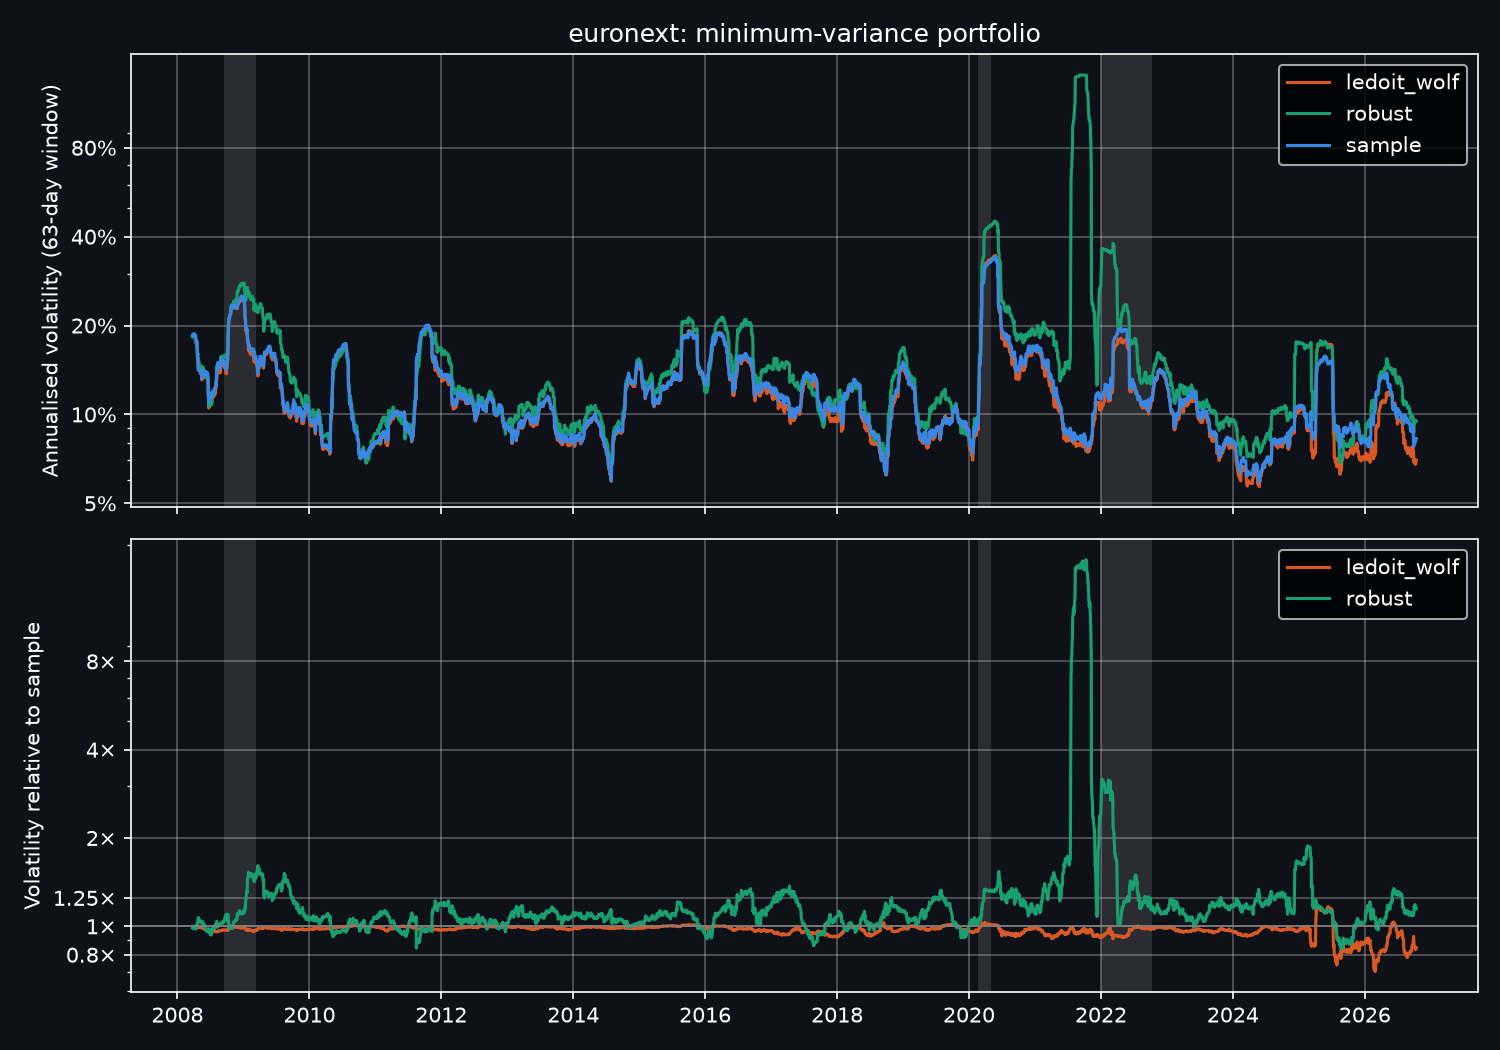
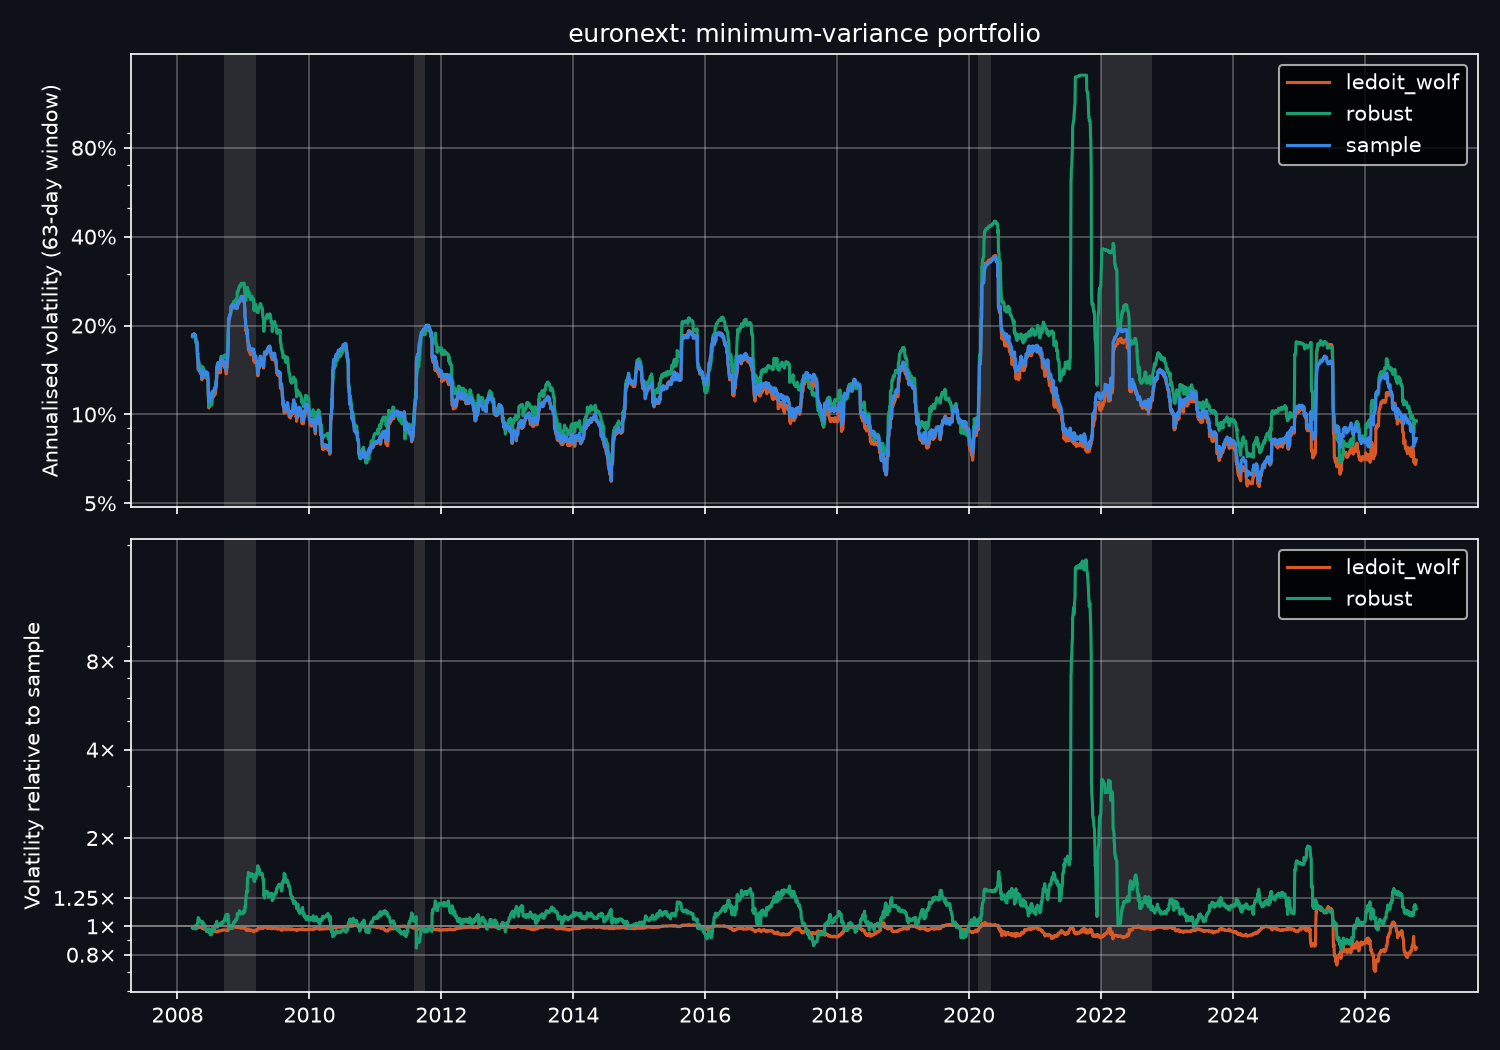
Added a new shaded crisis period in plots. Added functionality which automatically updates the README summary tables when plot_figures.py is called

Changed region(s): [[0.276, 0.5181, 0.3067, 0.9448], [0.276, 0.061, 0.3067, 0.4876]]

diff --git a/scripts/plot_figures.py b/scripts/plot_figures.py
@@ -12,9 +12,26 @@ from robust_covar.storage import connect, read_daily_returns, read_rebalance
 PROJECT_DIR = Path(__file__).resolve().parents[1]
 PATH_FIG = PROJECT_DIR / "figures"
 PATH_DB = PROJECT_DIR / "results" / "backtest.sqlite"
+PATH_README = PROJECT_DIR / "README.md"
 
 MARKETS = ("sp500", "euronext")
 BASE_ESTIMATOR = "sample"
+
+
+def write_table_into_readme(table_name: str, table_markdown: str) -> None:
+    readme_text = PATH_README.read_text(encoding="utf-8")
+
+    start_marker, end_marker = (
+        f"<!-- {table_name}:start -->",
+        f"<!-- {table_name}:end -->",
+    )
+    before, rest = readme_text.split(start_marker)
+    _, after = rest.split(end_marker)
+
+    PATH_README.write_text(
+        f"{before}{start_marker}\n{table_markdown}\n{end_marker}{after}",
+        encoding="utf-8",
+    )
 
 
 def available_estimators(con: Connection, market: str) -> list[str]:
@@ -60,8 +77,9 @@ def plot_market(con: Connection, market: str) -> Path | None:
     rebalances = read_rebalance(con, market, estimators, start, end)
     summary = summary_table(daily_ret, rebalances)
     summary_md = summary.to_markdown()
-    # Save the summary to markdown file
+    # Save the summary to markdown file and write its results in README
     (PATH_FIG / f"summary_{market}.md").write_text(summary_md)
+    write_table_into_readme(f"{market}_table", summary_md)
 
     return fig_path
 

diff --git a/src/robust_covar/plots.py b/src/robust_covar/plots.py
@@ -4,7 +4,6 @@ import pandas as pd
 import matplotlib.pyplot as plt
 from matplotlib.ticker import PercentFormatter, FixedLocator, NullFormatter
 
-# One validated categorical palette, stepped per background (colour-blind safe on both)
 ESTIMATOR_COLOURS = {"sample": "#2a78d6", "ledoit_wolf": "#eb6834", "robust": "#1baf7a"}
 ESTIMATOR_COLOURS_DARK = {
     "sample": "#3987e5",
@@ -28,6 +27,7 @@ THEMES = {
 }
 CRISES = {
     "GFC": ("2008-09-15", "2009-03-09"),
+    "Black Monday": ("2011-08-01", "2011-10-03"),
     "COVID": ("2020-02-20", "2020-04-30"),
     "2022": ("2022-01-03", "2022-10-12"),
 }
@@ -36,7 +36,7 @@ CRISES = {
 def shade_crises(ax, alpha: float = 0.15):
     for name, (start, end) in CRISES.items():
         start, end = pd.Timestamp(start), pd.Timestamp(end)
-        ax.axvspan(start, end, color="grey", alpha=alpha, linewidth=0)
+        ax.axvspan(start, end, color="grey", alpha=alpha, linewidth=0, zorder=0)
 
 
 def plot_volatility(

diff --git a/README.md b/README.md
@@ -2,7 +2,7 @@
 
 **Does a better (robust) covariance estimate give a lower-risk portfolio out of sample?**
 
-<!-- > **Status: work in progress.** Results for all three estimators are final; the dashboard and significance tests are still to come. -->
+<!-- > **Status: work in progress.** Results for all three estimators are final; the significance tests are still to come. -->
 
 <picture>
   <source media="(prefers-color-scheme: dark)" srcset="figures/volatility_euronext_dark.png">
@@ -22,20 +22,21 @@ The pre-specified robust estimator raises risk: it is about 10% more volatile th
 ### Summary, out of sample 2008–2026
 
 Euronext (N = 67):
-
+<!-- euronext_table:start -->
 | estimator   |   pooled_vol |   vol_ratio |   median_monthly_ratio |   median_leverage |   max_leverage |
 |:------------|-------------:|------------:|-----------------------:|------------------:|---------------:|
 | ledoit_wolf |        0.124 |       0.979 |                  0.98  |             2.487 |          4.06  |
 | robust      |        0.22  |       1.746 |                  1.101 |             3.294 |        108.54  |
 | sample      |        0.126 |       1     |                  1     |             2.678 |          4.322 |
-
+<!-- euronext_table:end -->
 S&P 500 (N = 67):
-
+<!-- sp500_table:start -->
 | estimator   |   pooled_vol |   vol_ratio |   median_monthly_ratio |   median_leverage |   max_leverage |
 |:------------|-------------:|------------:|-----------------------:|------------------:|---------------:|
 | ledoit_wolf |        0.14  |       0.975 |                  0.978 |             2.659 |          3.635 |
 | robust      |        0.186 |       1.298 |                  1.1   |             3.43  |         42.449 |
 | sample      |        0.143 |       1     |                  1     |             2.871 |          4.688 |
+<!-- sp500_table:end -->
 
 `pooled_vol`: annualised standard deviation of all daily portfolio returns. `vol_ratio`: pooled volatility relative to the sample-covariance portfolio. `median_monthly_ratio`: median over rebalances of the 21-day volatility ratio to the sample-covariance portfolio. Leverage is gross leverage, `sum |w_i|`.
 
